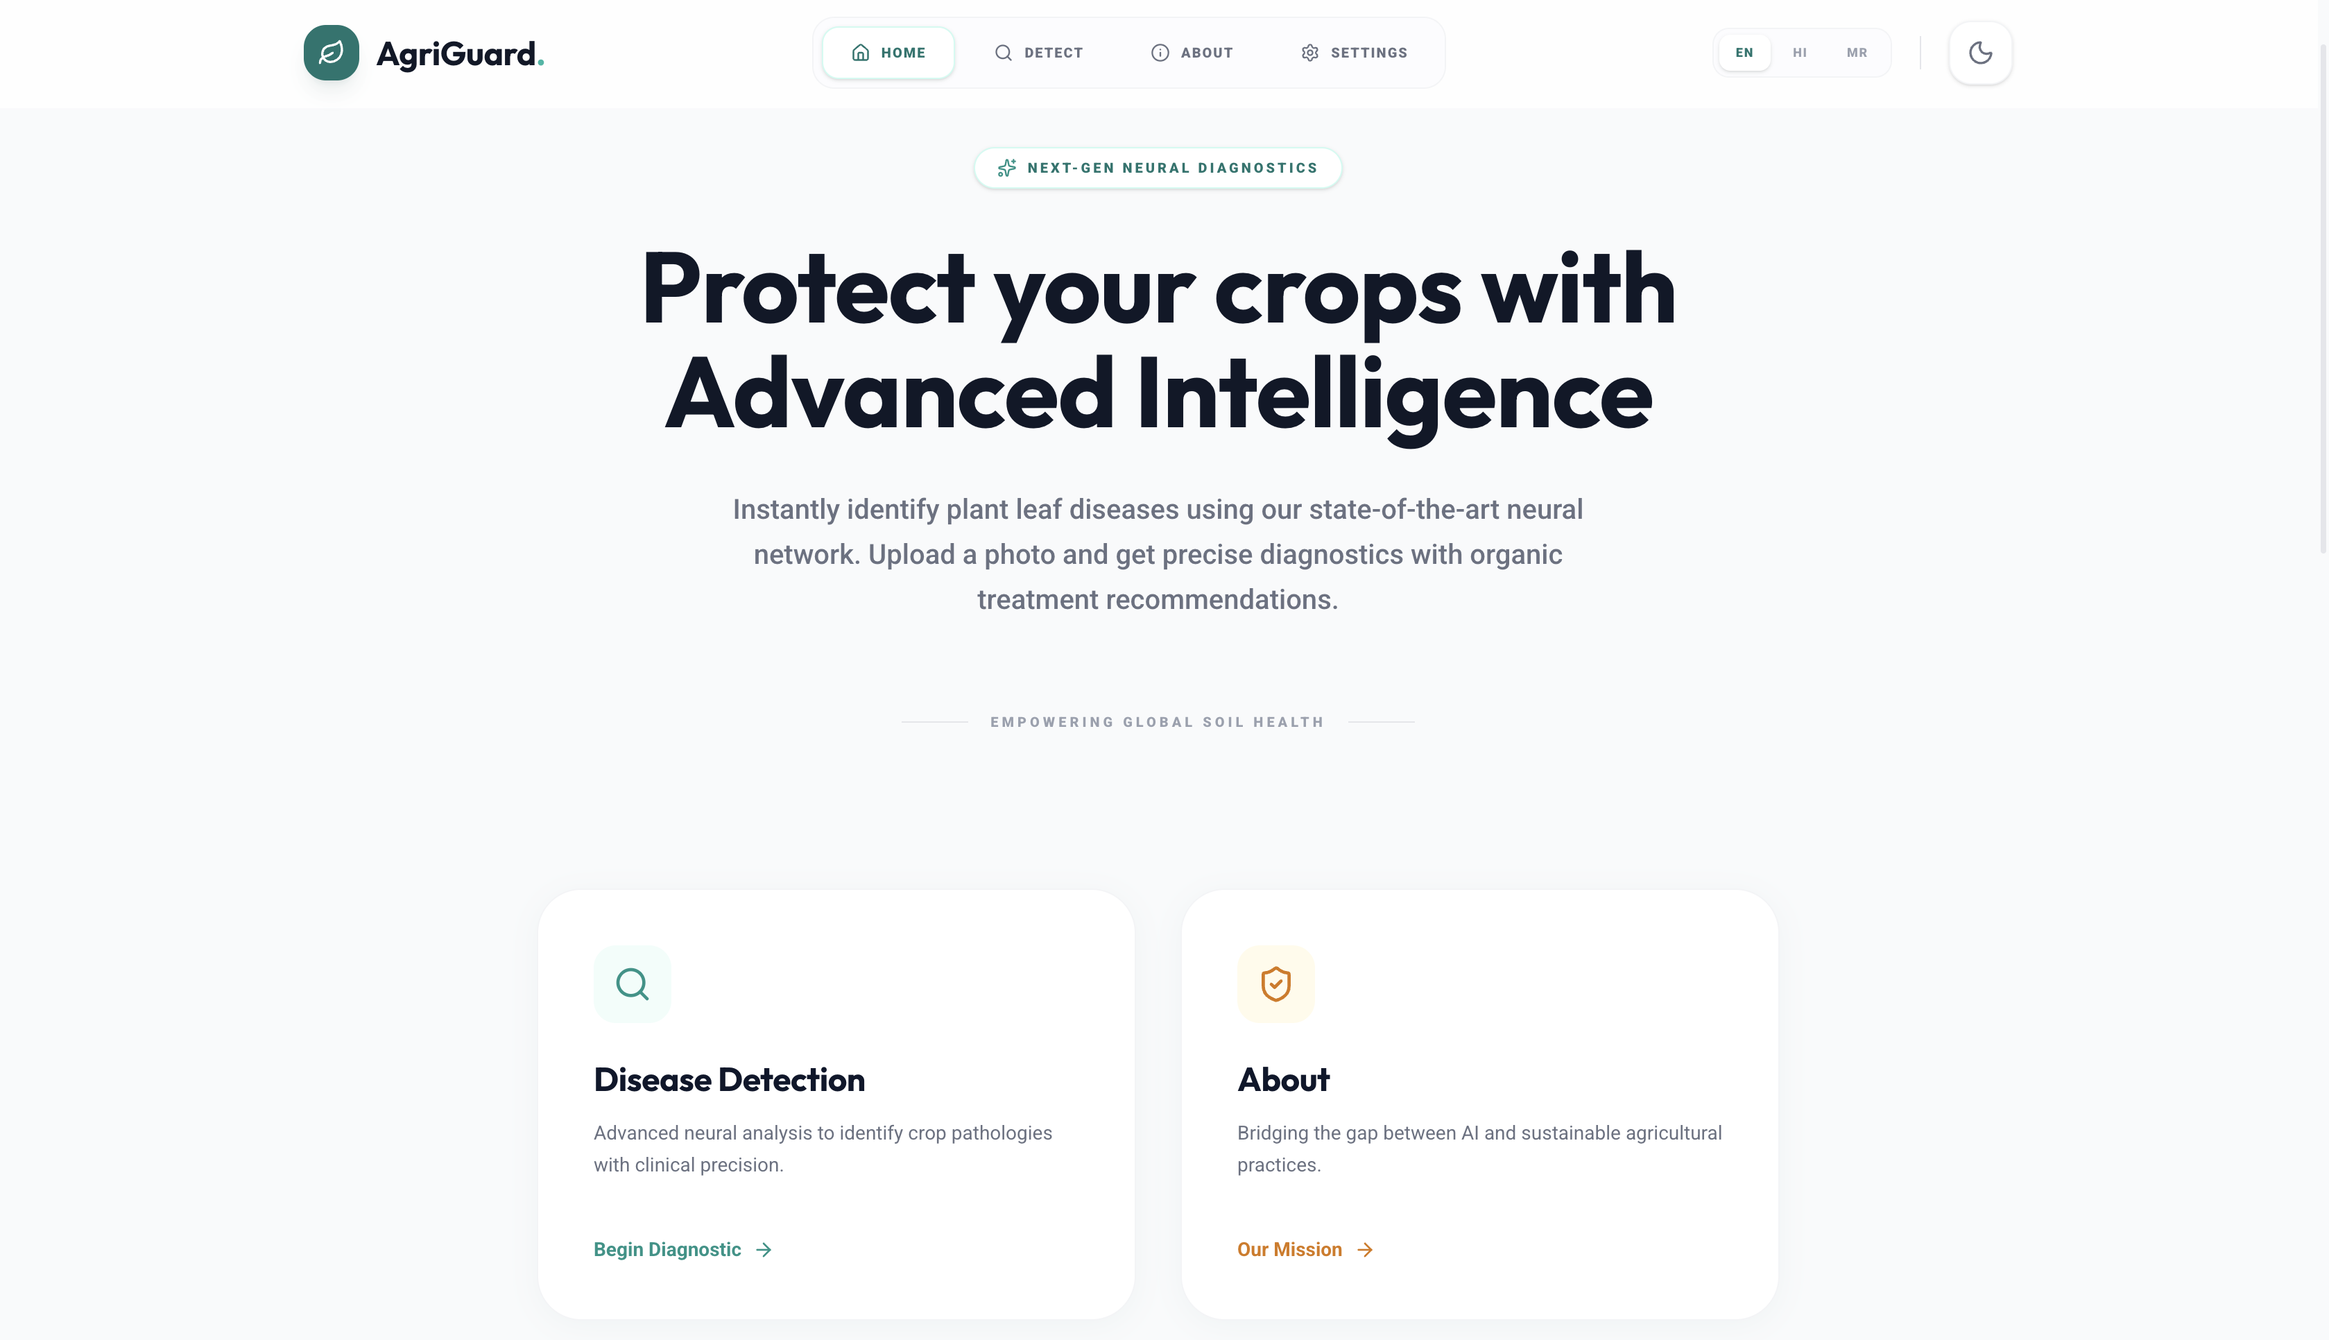
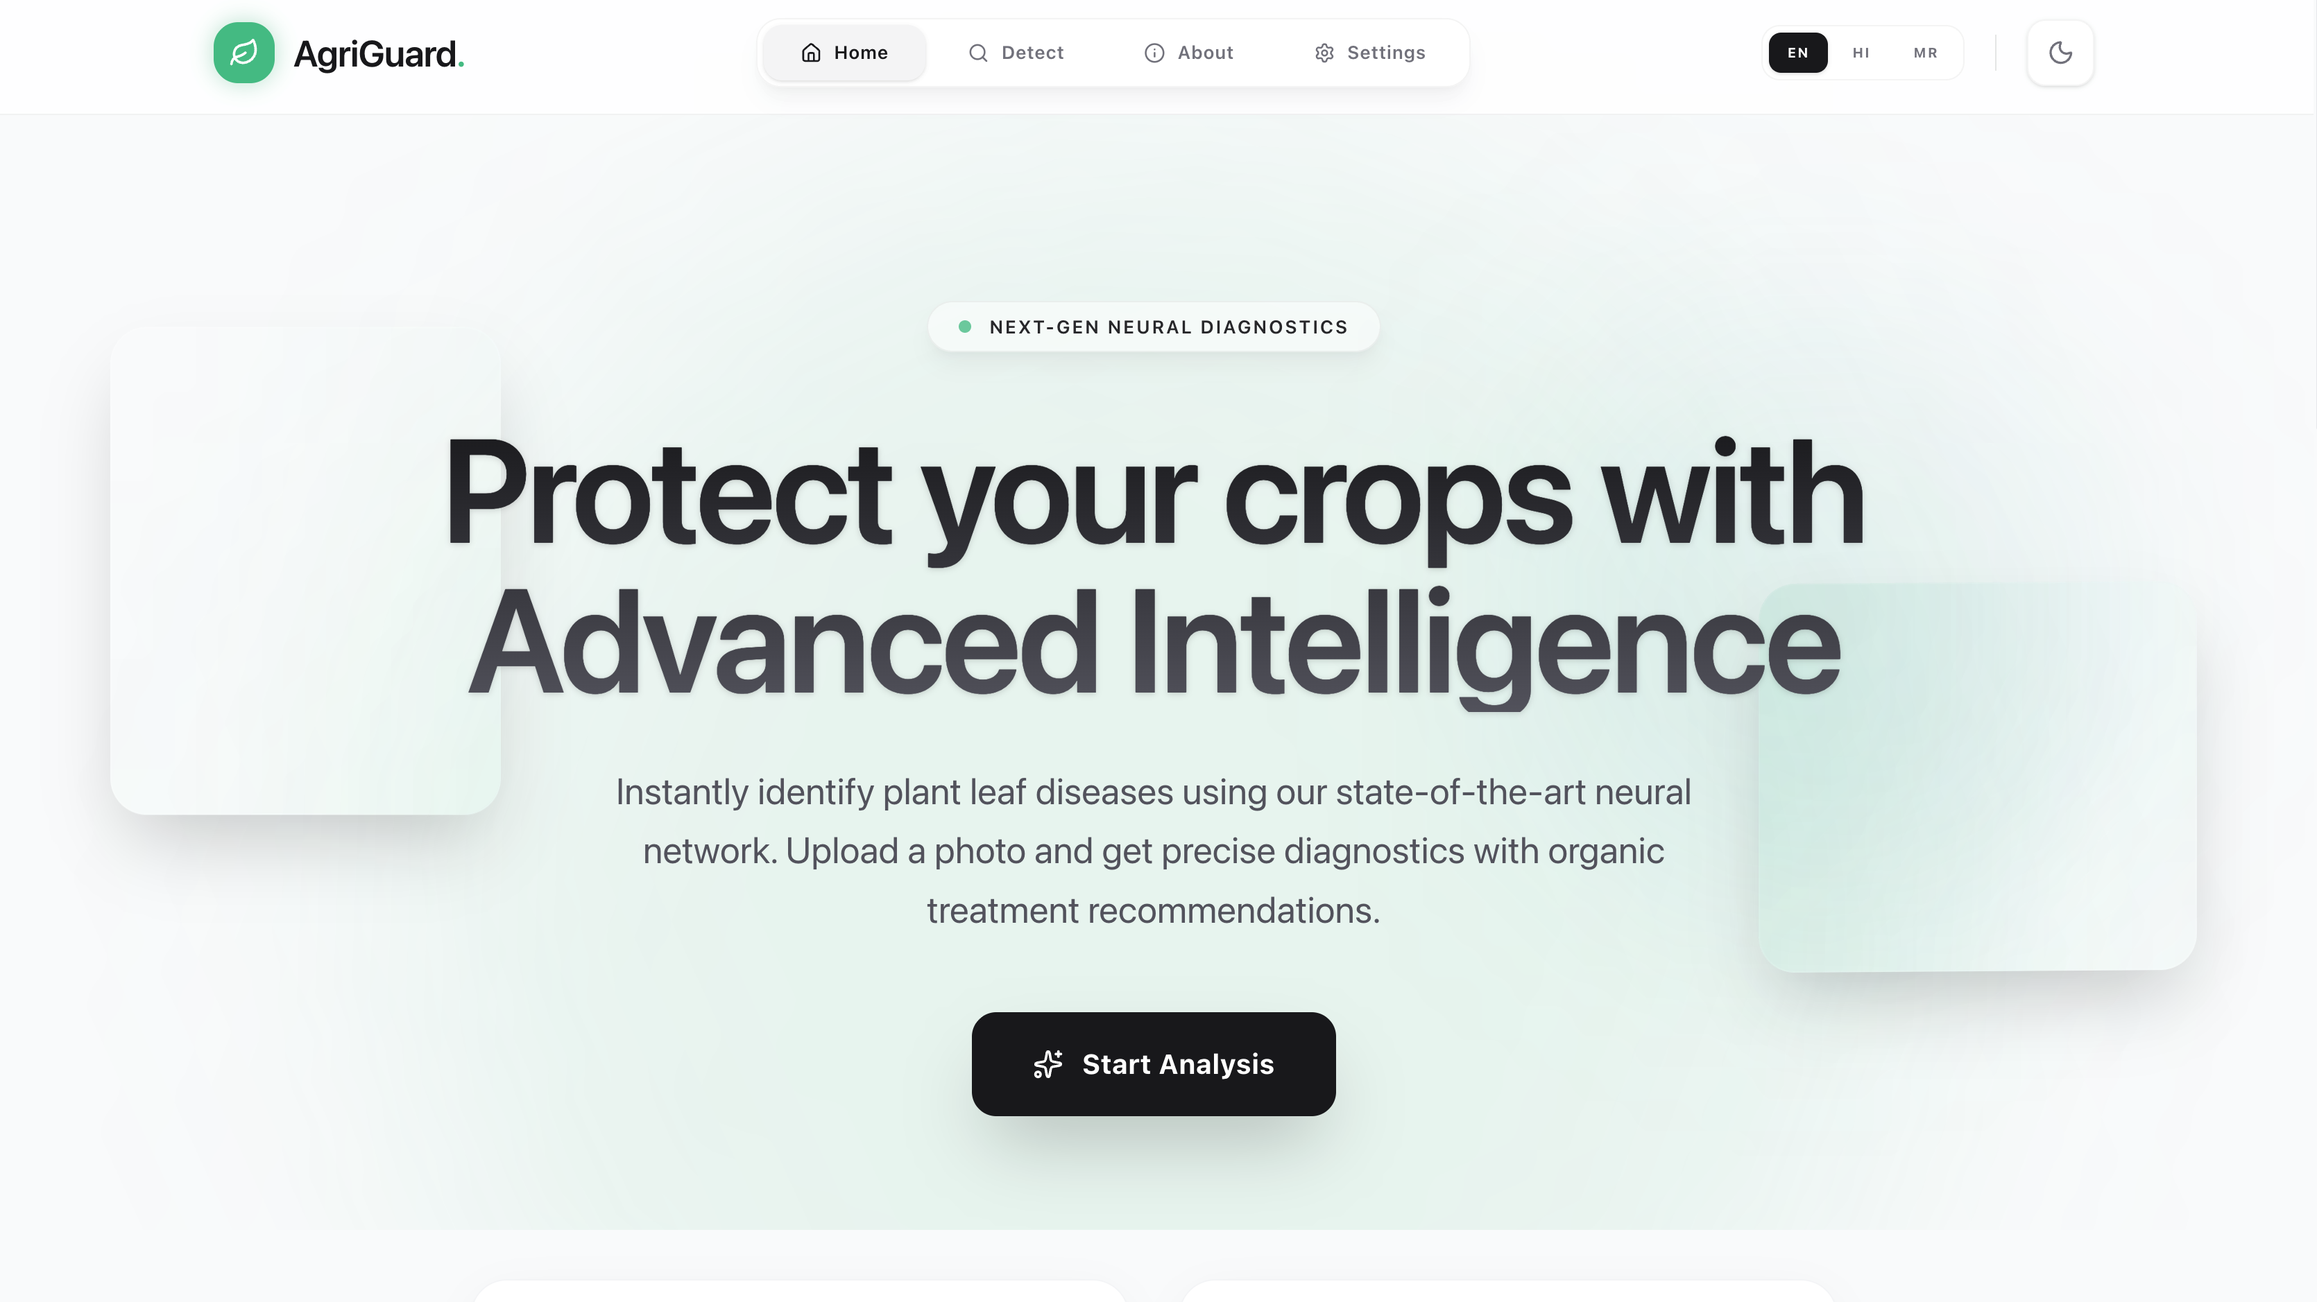
docs: update README with premium architecture details and add diagnostic output showcase screenshot

diff --git a/README.md b/README.md
@@ -4,7 +4,7 @@
 
 **Intelligent Plant Disease Diagnostic System**
 
-*Empowering global agriculture with state-of-the-art Deep Learning and AI-driven insights.*
+*Empowering global agriculture with state-of-the-art Deep Learning, Vector Search (RAG), and Multimodal AI-driven insights.*
 
 [![GitHub License](https://img.shields.io/github/license/muzzo-coder/AgriGuardAI?style=flat-square&color=00b4b6)](https://github.com/muzzo-coder/AgriGuardAI)
 [![Frontend Status](https://img.shields.io/badge/Frontend-React%2018%20%2B%20Vite-blue?style=flat-square)](https://react.dev/)
@@ -19,53 +19,88 @@
 <br>
 
 ### 🌍 Why This Project Matters
-Every year, crop diseases cost the global agricultural economy billions of dollars, directly impacting food security and farmer livelihoods. **AgriGuard AI** solves this problem by bringing enterprise-grade machine learning directly to the field. By snapping a quick photo, farmers and agricultural experts can instantly diagnose plant pathogens, preventing widespread crop loss before it happens.
+Every year, crop pathogens and leaf diseases cost the global agricultural economy billions of dollars, directly threatening food security and farmers' livelihoods. **AgriGuard AI** bridges this gap by bringing enterprise-grade machine learning and localized diagnostics directly to the field. By uploading a photo or typing symptoms, farmers can instantly diagnose crop issues, retrieve scientific remediation protocols, and export clinical case reports.
 
 ---
 
 ## 1. 📖 Overview
-AgriGuard AI is a premium, full-stack SaaS-inspired application designed to bridge the gap between advanced artificial intelligence and practical agriculture. Built with a modern React frontend and a powerful Flask + TensorFlow backend, it uses Transfer Learning (ResNet50) to deliver highly accurate predictions and treatment recommendations.
+AgriGuard AI is a premium, full-stack crop-health platform featuring a dual-stage neural network classifier, semantic vector retrieval (RAG), and a multimodal LLM decision corrector. Built with a modern, responsive React interface and a modular Flask backend, the system identifies plant leaf pathogens and provides localized chemical, organic, and prevention guides in multiple languages.
 
-## 2. ✨ Features
-- 📸 **Precision Diagnostics**: Instant disease classification via image upload with >85% real-world accuracy.
-- 🤖 **Gemini AI Integration**: An intelligent, context-aware chatbot offering organic treatment plans and mitigation strategies.
-- 🌍 **Global Localization**: Native multi-language support (English, Hindi, Marathi) with real-time translation powered by `deep-translator`.
-- 🌓 **Adaptive UI**: Beautiful, fully responsive React interface featuring smooth animations, glassmorphism, and Dark Mode.
-- 🛡 **Confidence Thresholding**: Built-in uncertainty detection to prevent misdiagnosis of unrecognized pathogens.
-- 📊 **Diagnostic History**: Persistent local storage to track and review previous crop scans.
+---
+
+## 2. ✨ Premium Features
+- 📸 **Quality Filtering**: Instant leaf detection and quality assurance (checks glare, blur, and leaf presence) to ensure accurate scans.
+- 🔍 **Auto-Zoom Region Detector**: Uses OpenCV to isolate leaves, locate disease spots, highlight them with bounding boxes, and evaluate cropped close-ups to maximize prediction accuracy.
+- 🧠 **Multi-Stage Neural Net Pipeline**:
+  - **Stage 1**: Binary classifier (Healthy vs. Diseased) to fast-track healthy leaf early exits.
+  - **Stage 2**: Deep CNN Classifier identifying specific plant pathogens.
+- ⚡ **RAG Semantic Search (FAISS)**: Uses SentenceTransformers and Facebook AI Similarity Search (FAISS) to map symptoms and diseases to a comprehensive crop-health database.
+- 🧬 **Multimodal Fusion & LLM Correction**: 
+  - Fuses CNN image probability with symptom descriptions using a weighted hybrid model.
+  - Corrects low-confidence predictions using **Google Gemini 1.5 Flash** with retrieved vector context.
+- 📝 **Symptom-Only Standalone Mode**: Allows text-based symptom searches when no image is available.
+- 📄 **Clinical PDF Exports**: Export individual diagnostic sheets or the entire crop diagnosis history vault as beautifully formatted PDF reports (via ReportLab).
+- 🌍 **Global Localization**: Multi-language UI supports English, Hindi, and Marathi with real-time translation powered by `deep-translator`.
+- 📊 **Local Scan History**: Tracks all previous diagnoses locally on your device with persistent storage.
+
+---
 
 ## 3. 🛠 Tech Stack
 
 | Domain | Technologies |
 | :--- | :--- |
-| **Frontend** | React (TypeScript), Vite, Tailwind CSS v4, Framer Motion, Lucide React, i18next |
-| **Backend** | Python, Flask, Flask-CORS, deep-translator |
-| **Machine Learning** | TensorFlow, Keras, ResNet50 (Transfer Learning), Scikit-learn, OpenCV |
-| **Generative AI** | Google Gemini 1.5 Flash (RAG & Chatbot inference) |
+| **Frontend** | React 18, Vite, TypeScript, Tailwind CSS v4, Framer Motion, Lucide Icons, i18next |
+| **Backend** | Python 3, Flask, Flask-CORS, ReportLab (PDF engine), deep-translator |
+| **Machine Learning** | TensorFlow 2, Keras, ResNet50 (Transfer Learning), Scikit-learn, OpenCV |
+| **Generative AI & RAG** | Google Gemini 1.5 Flash, SentenceTransformers (`all-MiniLM-L6-v2`), FAISS (Vector Database) |
+
+---
 
 ## 4. 🧠 Architecture Flow
+
 ```text
-[ Farmer / User ]
-       │
-       ▼
-┌─────────────────────────┐
-│  React UI (Vite)        │ ──(i18n Localization)──▶ [ UI Elements Translated ]
-│  - Image Upload         │
-│  - Webcam Capture       │
-└─────────┬───────────────┘
-          │ (REST API via Axios)
-          ▼
-┌─────────────────────────┐
-│  Flask Backend API      │
-│                         │
-│  1. Image Preprocessing ├──▶ [ ResNet50 Model (model.h5) ] ──▶ [ Confidence Score ]
-│     (224x224 Resize)    │
-│                         │
-│  2. GenAI Engine        ├──▶ [ Google Gemini API ] ──▶ [ Chatbot / Treatments ]
-│                         │
-│  3. Translation Service ├──▶ [ Deep-Translator ] ──▶ [ Localized Output ]
-└─────────────────────────┘
+                          [ User Input: Image and/or Symptoms ]
+                                            │
+                                            ▼
+                                ┌───────────────────────┐
+                                │   Leaf Quality Filter │ ──(Invalid)──▶ [ Reject / Try Again ]
+                                └───────────┬───────────┘
+                                            │ (Valid)
+                                            ▼
+                                ┌───────────────────────┐
+                                │ Auto-Zoom OpenCV Spot │
+                                │   Disease Detector    │ ──(Cropped & Highlighted Images)
+                                └───────────┬───────────┘
+                                            │
+                                            ▼
+                                ┌───────────────────────┐
+                                │ Healthy vs Diseased   │ ──(Healthy)──▶ [ Healthy Early Exit ]
+                                │  Binary Classification│
+                                └───────────┬───────────┘
+                                            │ (Diseased)
+                                            ▼
+                                ┌───────────────────────┐
+                                │ Disease Classifier    │ ──(Top-3 Sorted Confidence)
+                                └───────────┬───────────┘
+                                            │
+                                            ▼
+                                ┌───────────────────────┐
+                                │  RAG & Vector Search  │ ◀──(Query)─── [ FAISS Database ]
+                                └───────────┬───────────┘
+                                            │
+                                            ▼
+                                ┌───────────────────────┐
+                                │   Gemini Hybrid LLM   │ ──(Low Confidence / Symptom Fusion)
+                                │  Multimodal Decision  │
+                                └───────────┬───────────┘
+                                            │
+                                            ▼
+                                ┌───────────────────────┐
+                                │ Localized Response    │ ──▶ [ PDF Case / Vault Reports ]
+                                └───────────────────────┘
 ```
+
+---
 
 ## 5. ⚙ Installation Guide
 
@@ -80,19 +115,20 @@ git clone https://github.com/muzzo-coder/AgriGuardAI.git
 cd AgriGuardAI
 
 # 2. Create and activate a virtual environment
-python -m venv venv
+python3 -m venv venv
 source venv/bin/activate  # On Windows: venv\Scripts\activate
 
 # 3. Install Python dependencies
 pip install -r requirements.txt
 
 # 4. Configure Environment Variables
-# Create a .env file in the root directory and add:
-GEMINI_API_KEY="your_api_key_here"
+# Create a .env file in the root directory and add your Gemini API Key:
+echo 'GEMINI_API_KEY="your_api_key_here"' > .env
 
 # 5. Start the Flask server
 python leaf.py
 ```
+*(Note: On first startup, the server will automatically vector-index `agricultural_knowledge.json` and generate `faiss_index.bin`)*
 
 ### Frontend Setup
 ```bash
@@ -106,44 +142,64 @@ npm install
 npm run dev
 ```
 
+---
+
 ## 6. 🌐 Usage Instructions
-1. Navigate to `http://localhost:5173` in your browser.
-2. Click **Scan Plant** to access the diagnostic portal.
-3. Upload a leaf image or use the integrated webcam tool.
-4. Review the AI prediction, confidence score, and severity indicator.
-5. Ask follow-up questions to the integrated Chat Assistant for organic pesticide recommendations.
+1. Open your browser to `http://localhost:5173`.
+2. Click **Scan Plant** to access the diagnostic dashboard.
+3. Choose your diagnostic input mode:
+   - **Image Only**: Upload a photo of the infected leaf.
+   - **Symptoms Only**: Type in the symptoms observed (e.g. "yellow spots on edges").
+   - **Hybrid (Recommended)**: Upload a photo and add a description for multimodal fusion.
+4. Review the AI prediction, severity level, auto-zoomed bounding boxes, chemical/organic treatment timelines, and references.
+5. Export the diagnostic sheet or save it to your local History Vault.
+6. Export the History Vault as a master crop report.
 
-## 7. 🧬 Model & AI Explanation
+---
 
-### Machine Learning Pipeline
-The core predictive engine is powered by **Transfer Learning** using the **ResNet50** architecture. By utilizing weights pre-trained on ImageNet, the model extracts high-level features even from extremely limited agricultural datasets.
-- **Preprocessing**: Images are scaled to `224x224` and zero-centered using ResNet's native preprocessing.
-- **Class Balancing**: Addressed dataset imbalances using Scikit-Learn's `compute_class_weight`.
-- **Top Layers**: Utilizes `GlobalAveragePooling2D` and heavy `Dropout(0.5)` to prevent catastrophic overfitting.
+## 7. 🧬 AI & Search Engine Breakdown
 
-### Generative AI Integration
-We utilize **Google's Gemini 1.5 Flash** to provide RAG-style conversational context. The model generates localized, human-readable treatment strategies instead of returning static database strings.
+### Leaf Auto-Zoom & Focus
+By applying adaptive thresholding and morphological closing, OpenCV isolates the leaf structure. The system converts the leaf pixels to HSV space to detect anomalous colors (rust, necrosis, white mildew). It extracts the bounding box coordinates, applies a 25% padding margin, crops the region, and feeds both the full image and the focused crop through the neural network pipeline, choosing the prediction that yields the highest confidence.
+
+### Vector Search (RAG)
+`rag_engine.py` embeds the structured crop-health documents in `agricultural_knowledge.json` into a FAISS index using SentenceTransformers. When a query is initiated, it fetches metadata containing:
+- Botanical / Scientific names.
+- Disease description and pathogen details.
+- Targeted organic and chemical fungicides/pesticides.
+- Recovery timelines and authoritative reference links.
+
+### Multimodal Fusion & Corrective LLM
+If both image classification and RAG symptom matching agree, the system fuses their confidence scores. If they disagree, it evaluates the channel with higher confidence. For predictions falling below the 70% threshold, it prompts Gemini 1.5 Flash with the vector-search context to formulate a definitive crop diagnosis.
+
+---
 
 ## 8. 📊 Performance Metrics
-On the evaluated test set, the upgraded ResNet50 architecture achieved:
+On the evaluated agricultural leaf test set, the upgraded ResNet50 Transfer Learning model achieved:
 - **Global Accuracy**: `~85.0%`
 - **F1-Score**: `0.85`
 - **Precision**: `0.87`
 - **Recall**: `0.85`
 
-*(Note: The model includes a safety threshold; predictions with <60% confidence are flagged as "Unrecognized Pathogen" to prevent false positives).*
+---
 
 ## 9. 📸 UI Showcase
-> *Beautiful, functional, and accessible. Designed for clarity in the field.*
+> *Beautiful, responsive, and data-rich interface designed for clarity in the field.*
 
-**Dashboard / Hero Section**
+**Dashboard Overview**
 ![Dashboard / Hero Section](demo.png)
 
-## 10. 🚀 Future Enhancements
-- [ ] **Mobile Native App**: Port the React UI to React Native for offline field capability.
-- [ ] **Expanded Dataset**: Integrate the full PlantVillage dataset (50,000+ images) for 99% accuracy.
-- [ ] **Geospatial Tracking**: Map disease outbreaks to alert neighboring farms.
-- [ ] **Weather Integration**: Correlate fungal outbreaks with local humidity and rainfall data.
+**Diagnostic Output & Auto-Zoom Crop Bounding Box**
+![Diagnostic Output Showcase](output.png)
+
+---
+
+## 10. 🚀 Future Roadmap
+- [ ] **Mobile Native Port**: Transition to React Native for offline caching and native camera capture.
+- [ ] **Outbreak Geospatial Alerts**: Map and alert neighboring agricultural zones of detected pathogens.
+- [ ] **Weather & Humidity Insights**: Integrate weather APIs to predict fungal spores spread conditions.
+
+---
 
 ## 11. 🤝 Contribution
 We welcome contributions from developers, data scientists, and agricultural experts!
@@ -153,8 +209,12 @@ We welcome contributions from developers, data scientists, and agricultural expe
 4. **Push to the branch** (`git push origin feature/AmazingFeature`).
 5. **Open a Pull Request**.
 
+---
+
 ## 12. 📄 License
 This project is licensed under the **MIT License**. See the `LICENSE` file for details.
+
+---
 
 ## 13. 👨💻 Author
 
